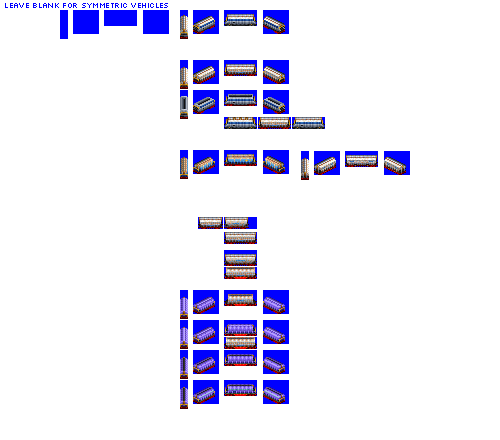
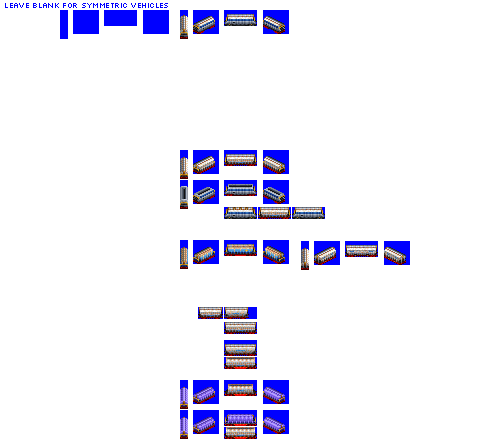
Change: gen 5 type 3 lime hoppers complete

Changed region(s): [[0.36, 0.325, 0.84, 1.0], [0.36, 0.1182, 0.66, 0.2955], [0.6, 0.325, 0.84, 0.4136]]

diff --git a/src/vehicles/pony/lime_covered_hopper_cars_type_3_pony.py b/src/vehicles/pony/lime_covered_hopper_cars_type_3_pony.py
@@ -7,28 +7,6 @@ def main(roster_id, **kwargs):
     consist = MineralCoveredHopperCarLimeConsistType3(
         roster_id=roster_id,
         roster_id_providing_module=kwargs["roster_id_providing_module"],
-        base_numeric_id=25990,
-        gen=2,
-        subtype="A",
-        sprites_complete=False,
-    )
-
-    consist.add_unit(type=FreightCar, chassis="2_axle_gapped_16px")
-
-    consist = MineralCoveredHopperCarLimeConsistType3(
-        roster_id=roster_id,
-        roster_id_providing_module=kwargs["roster_id_providing_module"],
-        base_numeric_id=26000,
-        gen=3,
-        subtype="A",
-        sprites_complete=False,
-    )
-
-    consist.add_unit(type=FreightCar, chassis="2_axle_gapped_16px")
-    """
-    consist = MineralCoveredHopperCarLimeConsistType3(
-        roster_id=roster_id,
-        roster_id_providing_module=kwargs["roster_id_providing_module"],
         base_numeric_id=34840,
         gen=4,
         subtype="A",
@@ -47,14 +25,14 @@ def main(roster_id, **kwargs):
     )
 
     consist.add_unit(type=FreightCar, chassis="2_axle_gapped_24px")
-
+    """
     consist = MineralCoveredHopperCarLimeConsistType3(
         roster_id=roster_id,
         roster_id_providing_module=kwargs["roster_id_providing_module"],
         base_numeric_id=33030,
         gen=5,
         subtype="A",
-        sprites_complete=False,
+        sprites_complete=True,
     )
 
     consist.add_unit(type=FreightCar, chassis="2_axle_gapped_greebled_16px")
@@ -65,7 +43,7 @@ def main(roster_id, **kwargs):
         base_numeric_id=34850,
         gen=5,
         subtype="B",
-        sprites_complete=False,
+        sprites_complete=True,
     )
 
     consist.add_unit(type=FreightCar, chassis="2_axle_filled_greebled_24px")
@@ -76,7 +54,7 @@ def main(roster_id, **kwargs):
         base_numeric_id=36340,
         gen=5,
         subtype="C",
-        sprites_complete=False,
+        sprites_complete=True,
     )
 
     consist.add_unit(type=FreightCar, chassis="4_axle_filled_greebled_32px")

diff --git a/src/vehicles/pony/lime_covered_hopper_cars_type_2_pony.py b/src/vehicles/pony/lime_covered_hopper_cars_type_2_pony.py
@@ -25,7 +25,7 @@ def main(roster_id, **kwargs):
     )
 
     consist.add_unit(type=FreightCar, chassis="2_axle_gapped_24px")
-
+    """
     consist = MineralCoveredHopperCarLimeConsistType2(
         roster_id=roster_id,
         roster_id_providing_module=kwargs["roster_id_providing_module"],
@@ -58,3 +58,4 @@ def main(roster_id, **kwargs):
     )
 
     consist.add_unit(type=FreightCar, chassis="4_axle_chute_greebled_alt_32px")
+    """

diff --git a/src/rosters/pony.py b/src/rosters/pony.py
@@ -312,7 +312,7 @@ wagon_module_names_with_roster_ids = {
     "lime_covered_hopper_cars_randomised": "pony",
     "lime_covered_hopper_cars_type_1": "pony",
     "lime_covered_hopper_cars_type_2": "pony",
-    #"lime_covered_hopper_cars_type_3": "pony",
+    "lime_covered_hopper_cars_type_3": "pony",
     "livestock_cars": "pony",
     "log_cars": "pony",
     "low_floor_intermodal_cars": "pony",
